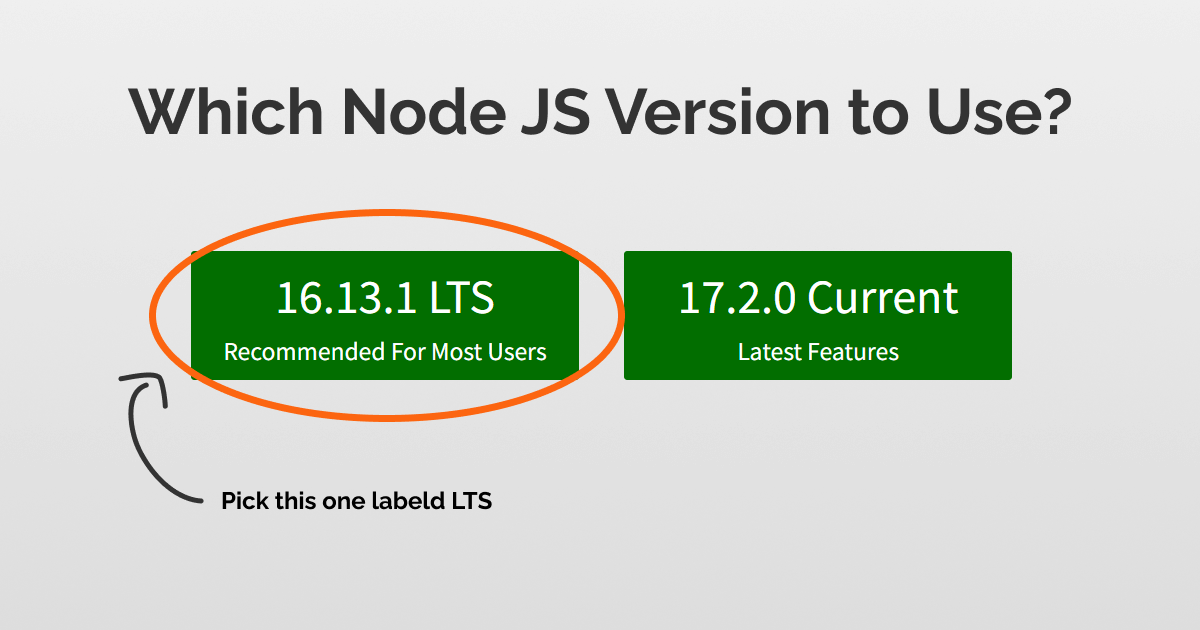
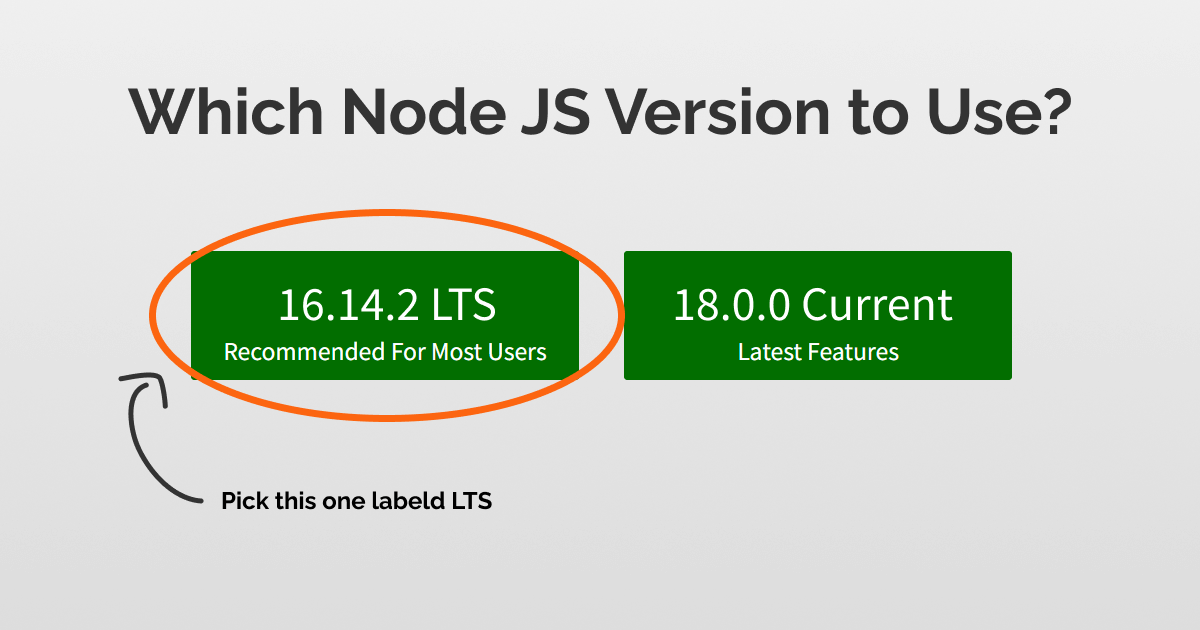
Updates the features image for node 18

Changed region(s): [[0.555, 0.4524, 0.8017, 0.5127], [0.2158, 0.4222, 0.4317, 0.5127]]

diff --git a/blog/2020/1-30-which-nodejs-version/index.md b/blog/2020/1-30-which-nodejs-version/index.md
@@ -18,6 +18,22 @@ According to the Node JS blog, “If you are using Node.js in production use an 
 
 As I mentioned above, picking a Node version is not that of a big deal and you can always upgrade or downgrade versions when needed. If you are learning Node JS by following a tutorial, you can always check the version the instructor has used. You will be safe using a version that is higher than the version used by the instructor.
 
+### Update: Node 18 adds Browswer fetch API
+
+The latest Node 18 (current) version supports the addition of fetch API. This update further makes the syntax of browser JavaScript and Node.js uniformed. Here's how to use `fetch` in Node:
+
+```js
+const res = await fetch('https://nodejs.org/api/documentation.json');
+if (res.ok) {
+  const data = await res.json();
+  console.log(data);
+}
+```
+
+Other than `fetch` it also exposes all the related Web API globals like `FormData`, `Headers`, `Request`, and `Response`.
+
+If you would like to get your hands on trying out fetch, you can use NVM to install multiple versions of Node (explained later in this post).
+
 Now that you know which version to pick when working with Node JS, let me tell you a bit more about the Node version lifecycle.
 
 ## What is Node LTS?
